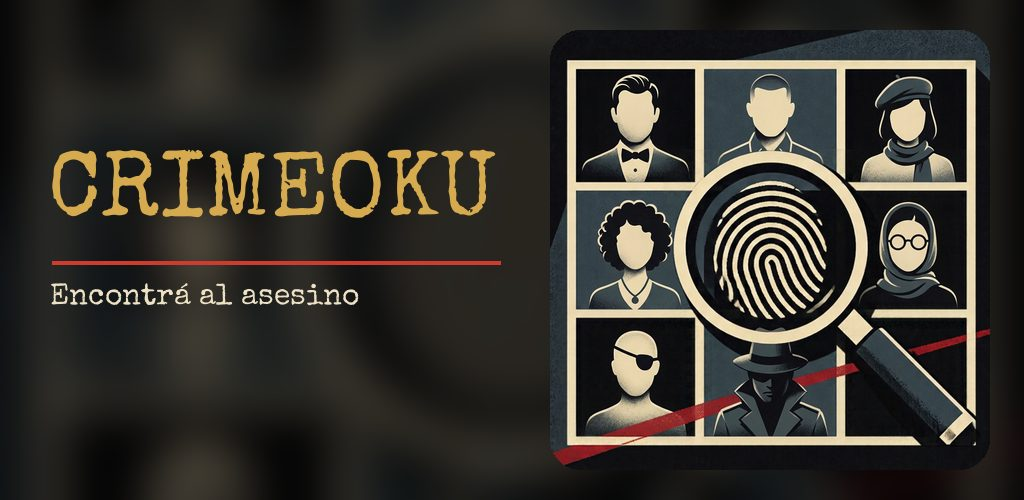
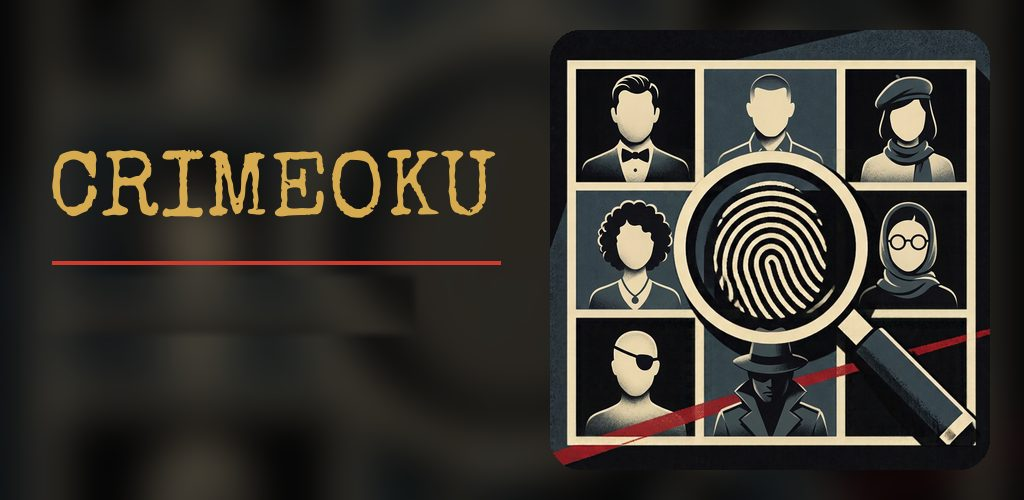
Eslogan de Crimeoku como texto sobre la imagen, traducible
La imagen del banner ya no lleva la frase incluida: se muestra encima
con CSS ("Find the killer" / "Encontrá al asesino") según el idioma.

Claude-Session: https://claude.ai/code/session_01FMvqXHiCXnMd2NXHeKN8bJ

Changed region(s): [[0.0312, 0.57, 0.375, 0.66]]

diff --git a/index.html b/index.html
@@ -79,7 +79,7 @@
     </div>
 
     <article class="app" id="crimeoku">
-      <div class="shot"><img src="img/crimeoku-feature.jpg" width="1024" height="500" alt="Crimeoku"></div>
+      <div class="shot"><img src="img/crimeoku-feature.jpg" width="1024" height="500" alt="Crimeoku"><span class="slogan"><span data-l="en">Find the killer</span><span data-l="es">Encontrá al asesino</span></span></div>
       <div class="body">
         <div class="head">
           <img src="img/crimeoku-icon.png" width="56" height="56" alt="">

diff --git a/style.css b/style.css
@@ -109,3 +109,6 @@ footer nav{display:flex;flex-wrap:wrap;gap:8px 22px}
 
 [data-l]{display:none}
 html[lang="en"] [data-l="en"],html[lang="es"] [data-l="es"]{display:revert}
+/* La frase va como texto sobre la imagen (sin frase) para poder traducirla */
+.app .shot{position:relative;container-type:inline-size}
+.app .shot .slogan{position:absolute;left:5.1%;top:56.2%;font:400 2.93cqw/1.2 'Special Elite','Courier New',monospace;color:#e9dcc0;white-space:nowrap}
